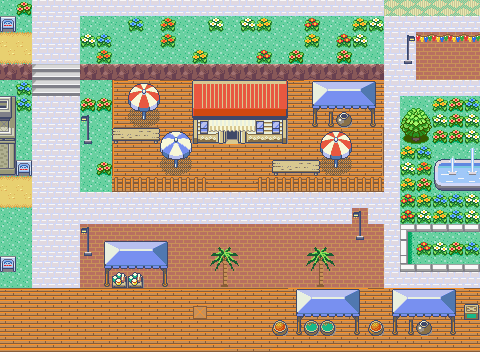
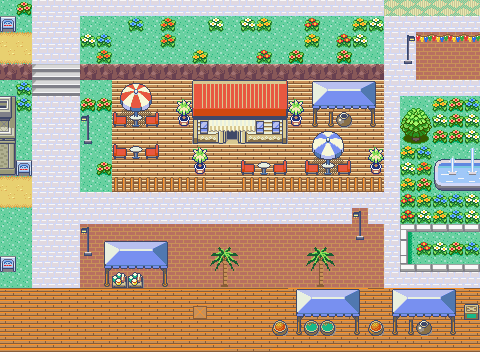
Café terrace: modern round tables with two chairs, umbrella sets, potted palms, lighter floor
Small round tables (drawn in Emerald style) with the red Battle Frontier lounge chairs;
Route 109 umbrellas over table sets; Battle Frontier potted palms; terrace planks without
the saturated orange highlight; brown fence kept.

Claude-Session: https://claude.ai/code/session_015nAeBdQj1XXGE9TrWVaT6H

Changed region(s): [[0.2188, 0.2188, 0.8125, 0.5625]]

diff --git a/dev_scripts/lilycove_redesign/port_art.py b/dev_scripts/lilycove_redesign/port_art.py
@@ -107,3 +107,62 @@ def _wood_fence():
         for x in range(x0, x0 + 4): c[15][x] = DB
     return c
 _CANVAS['fence_wood'] = _wood_fence(); PAL_OF['fence_wood'] = 6; ART['fence_wood'] = lambda: _CANVAS['fence_wood']
+
+# ---- café furniture v2: small modern table + two red chairs, umbrella sets, potted palms ----
+def _chair(right=False):
+    """red lounge chair from the Battle Frontier lounge (back on the right = faces left)"""
+    im = A.top_layer('primary/building', 'secondary/battle_frontier', [0x3e7])
+    return im.transpose(Image.FLIP_LEFT_RIGHT) if right else im
+def _table():
+    """small round modern table: white top, slim grey pedestal (drawn in Emerald style)"""
+    OUT, WH, HI, RIM, DK = (64, 72, 104), (248, 248, 248), (232, 240, 224), (152, 144, 136), (80, 120, 176)
+    im = Image.new('RGBA', (16, 16), (0, 0, 0, 0)); p = im.load()
+    def put(x, y, c): p[x, y] = c + (255,)
+    for y in range(2, 9):                       # tabletop: ellipse 13x7
+        for x in range(1, 15):
+            dx = (x - 7.5) / 6.5; dy = (y - 5) / 3.4
+            if dx * dx + dy * dy <= 1.0:
+                put(x, y, WH if y < 6 else (HI if y < 7 else RIM))
+    for y in range(2, 9):                       # outline
+        for x in range(1, 15):
+            if p[x, y][3] and any(not (0 <= x + a < 16 and 0 <= y + b < 16) or not p[x + a, y + b][3] for a, b in ((1,0),(-1,0),(0,1),(0,-1))):
+                put(x, y, OUT)
+    for y in range(9, 13):                      # pedestal
+        put(6, y, OUT); put(7, y, RIM); put(8, y, DK); put(9, y, OUT)
+    for x in range(4, 12): put(x, 13, OUT if x in (4, 11) else DK)
+    for x in range(5, 11): put(x, 14, OUT)
+    return im
+def _table_set():
+    """chair | table | chair (3x1)"""
+    im = Image.new('RGBA', (48, 16), (0, 0, 0, 0))
+    for x, part in ((0, _chair(right=True)), (16, _table()), (32, _chair())):
+        im.alpha_composite(part, (x, 0))
+    return im
+def _umbrella_set(x0, y0):
+    """3x3: beach umbrella over a small table with two chairs; the pole goes into the table"""
+    u = A.beach_umbrella(x0, y0); im = Image.new('RGBA', (48, 48), (0, 0, 0, 0))
+    up = u.load(); shadow = (112, 96, 72)
+    for y in range(48):                          # 1) shadow on the floor
+        for x in range(32):
+            if up[x, y][3] and up[x, y][:3] == shadow: im.putpixel((x + 8, y), up[x, y])
+    im.alpha_composite(_table_set(), (0, 32))    # 2) chairs and table
+    for y in range(48):                          # 3) canopy and the visible part of the pole
+        for x in range(32):
+            if up[x, y][3] and up[x, y][:3] != shadow and (y < 32 + 5 or not (8 <= x + 8 < 40)):
+                im.putpixel((x + 8, y), up[x, y])
+    return im
+def _potted_palm():
+    return A.top_layer('primary/building', 'secondary/battle_frontier', [0x3dc]).crop((0, 0, 16, 16)), \
+           A.top_layer('primary/building', 'secondary/battle_frontier', [0x3e4])
+def _palm_pot():
+    a, b = _potted_palm(); im = Image.new('RGBA', (16, 32), (0, 0, 0, 0)); im.alpha_composite(a, (0, 0)); im.alpha_composite(b, (0, 16)); return im
+for _n, _mk in (('table_set', _table_set), ('umbrella_set_red', lambda: _umbrella_set(9, 6)),
+                ('umbrella_set_blue', lambda: _umbrella_set(24, 3))):
+    _CANVAS[_n] = _fixed(_mk(), 11); PAL_OF[_n] = 11; ART[_n] = (lambda n=_n: _CANVAS[n])
+
+# lighter terrace planks: the dock planks without the saturated orange highlight (OR -> cream)
+_CANVAS['terrace'] = [[2 if v == 4 else v for v in row] for row in _F.dock()]
+PAL_OF['terrace'] = 6; ART['terrace'] = lambda: _CANVAS['terrace']; FLOOR.add('terrace')
+PALETTES[6] = list(_F.PAL6)        # festival palette (greens for the potted palms); only used for mapping,
+_CANVAS['potted_palm'] = _fixed(_palm_pot(), 6); PAL_OF['potted_palm'] = 6; ART['potted_palm'] = lambda: _CANVAS['potted_palm']
+del PALETTES[6]                    # slot 6 itself is written by festival_tiles.py (shared with Route 121)

diff --git a/dev_scripts/lilycove_redesign/layout.py b/dev_scripts/lilycove_redesign/layout.py
@@ -223,14 +223,16 @@ garden(-5,23,14,26,32)                                                       # u
 ledge(-5,14,26)                                                             # the step continues east of the street
 # --- seaside café (replaces the Pokémon Center and the harbor building) on the lower level
 fill(-5,27,14,40,GRASS)
-deck(-3,14,27,34,posts_below=False)                                         # wooden terrace x -3..13, rows 27..33
-art('cafe',2,27,bottom='dock')                                              # Café Litoral, door (4,30)
-art('tent_pots',9,27,bottom='dock',walk_rows=2)                             # juice kiosk
-art('umbrella_red',-2,27,bottom='dock',walk_rows=1); art('cafe_table',-3,30,bottom='dock')
-art('umbrella_blue',0,30,bottom='dock',walk_rows=1)
-art('umbrella_red',10,30,bottom='dock',walk_rows=1); art('cafe_table',7,32,bottom='dock')
-for x in range(-3,14):                                                      # low wooden fence, entrance at x 3..5
-    if not 3<=x<=5: art('fence_wood',x,33,bottom='dock')
+for y in range(27,34):                                                      # light wooden terrace x -3..13, rows 27..33
+    for x in range(-3,14): put(x,y,('ART',('terrace',0,0,None,'water'),0,3))
+art('cafe',2,27,bottom='terrace')                                           # Café Litoral, door (4,30)
+art('tent_pots',9,27,bottom='terrace',walk_rows=2)                          # juice kiosk
+art('umbrella_set_red',-3,27,bottom='terrace',walk_rows=1)                  # umbrella + table + two chairs
+art('umbrella_set_blue',9,30,bottom='terrace',walk_rows=1)
+art('table_set',-3,31,bottom='terrace'); art('table_set',5,32,bottom='terrace')   # small modern tables
+for (px_,py_) in ((1,28),(8,28),(2,31),(13,31)): art('potted_palm',px_,py_,bottom='terrace',walk_rows=1)
+for x in range(-3,14):                                                      # low brown fence, entrance at x 3..4
+    if x not in (3,4): art('fence_wood',x,33,bottom='terrace')
 for (fx,fy) in ((-5,28),(-4,28),(-4,32)): put(fx,fy,FLOWERS)
 palm(-5,31,'grass') if False else None
 paving(-5,34,14,36)                                                         # promenade: street -> plaza

diff --git a/dev_scripts/lilycove_redesign/build_city_tileset.py b/dev_scripts/lilycove_redesign/build_city_tileset.py
@@ -122,7 +122,7 @@ def build(M, festival_ids):
             for key, bits in ((hv, 0xC00), (v, 0x800), (h, 0x400), (k, 0)):
                 tile_index[key] = base | bits
         return tile_index[k]
-    keys = sorted({v[1] for row in M for v in row if isinstance(v, tuple)}, key=lambda k: (k[0] != 'paving', str(k)))
+    keys = sorted({v[1] for row in M for v in row if isinstance(v, tuple)}, key=lambda k: (k[0] not in port_art.FLOOR, str(k)))
     prim_ids = []
     for key in keys:
         name, mx, my, pal, bottom = key
@@ -134,7 +134,7 @@ def build(M, festival_ids):
             t = add_ptile(q) if prim else add_tile(q)
             top.append(t | (pal << 12) if t else 0)
         entries = top + [0] * 4 if name in port_art.FLOOR else BOTTOM[bottom] + top
-        if name == 'paving': BOTTOM['paving'] = top
+        if name in port_art.FLOOR: BOTTOM[name] = top
         if prim and (name in port_art.FLOOR or bottom in PRIMARY_BOTTOMS):
             if not pmeta_pool: raise SystemExit('primary tileset: out of free metatiles')
             mid = pmeta_pool.pop(0); pmetas[mid] = entries; pattrs[mid] = 0; prim_ids.append(mid)

diff --git a/docs/lilycove/README.md b/docs/lilycove/README.md
@@ -123,12 +123,17 @@ Rota 121 e ao Safari. Tiles iguais ou espelhados são reaproveitados (espaço li
 Substitui o Centro Pokémon e o prédio do Porto. Montado com peças do próprio Emerald:
 * **Café**: a floricultura da Rota 104 (telhado laranja, toldo listrado), com paredes
   creme e floreiras de madeira no lugar do verde.
-* **Terraço de madeira** (mesmo deck do porto) com **guarda-sóis da praia da Rota 109**
-  (a sombra na areia virou sombra pontilhada sobre a madeira) e **mesas da Seashore House**.
-* **Quiosque de sucos** (barraca do mercado), **cerca baixa de madeira** com entrada
-  alinhada à porta, calçada ligando a rua à praça e calçadão de tijolos com barraca de
-  flores e palmeiras.
-* Tudo na paleta 11 do mercado (o índice 6, que estava livre, virou um vermelho-coral).
+* **Terraço de madeira clara** (as tábuas do porto sem o realce laranja saturado).
+* **Mesinhas redondas modernas** (desenhadas no estilo do jogo) com **duas cadeiras
+  vermelhas do lounge da Battle Frontier**, e conjuntos de **guarda-sol da praia da Rota
+  109** sobre mesa e cadeiras (o mastro entra no centro da mesa; sombra pontilhada).
+* **Palmeirinhas em vaso** (também do lounge da Battle Frontier) junto ao café, ao quiosque
+  e à entrada.
+* **Quiosque de sucos** (barraca do mercado), **cerca baixa marrom** com entrada alinhada à
+  porta, calçada ligando a rua à praça e calçadão de tijolos com barraca de flores e
+  palmeiras.
+* Café, móveis e guarda-sóis na paleta 11 do mercado (o índice 6, que estava livre, virou
+  um vermelho-coral); vasos, piso e cerca na paleta 6 do festival.
 * Placas: letreiro do café, aviso na porta e cardápio do quiosque.
 * O Centro Pokémon e o Porto saíram do mapa. Os warps deles ficam na calçada, para
   que o renascimento depois de desmaiar e o Fly continuem funcionando, até o Centro
